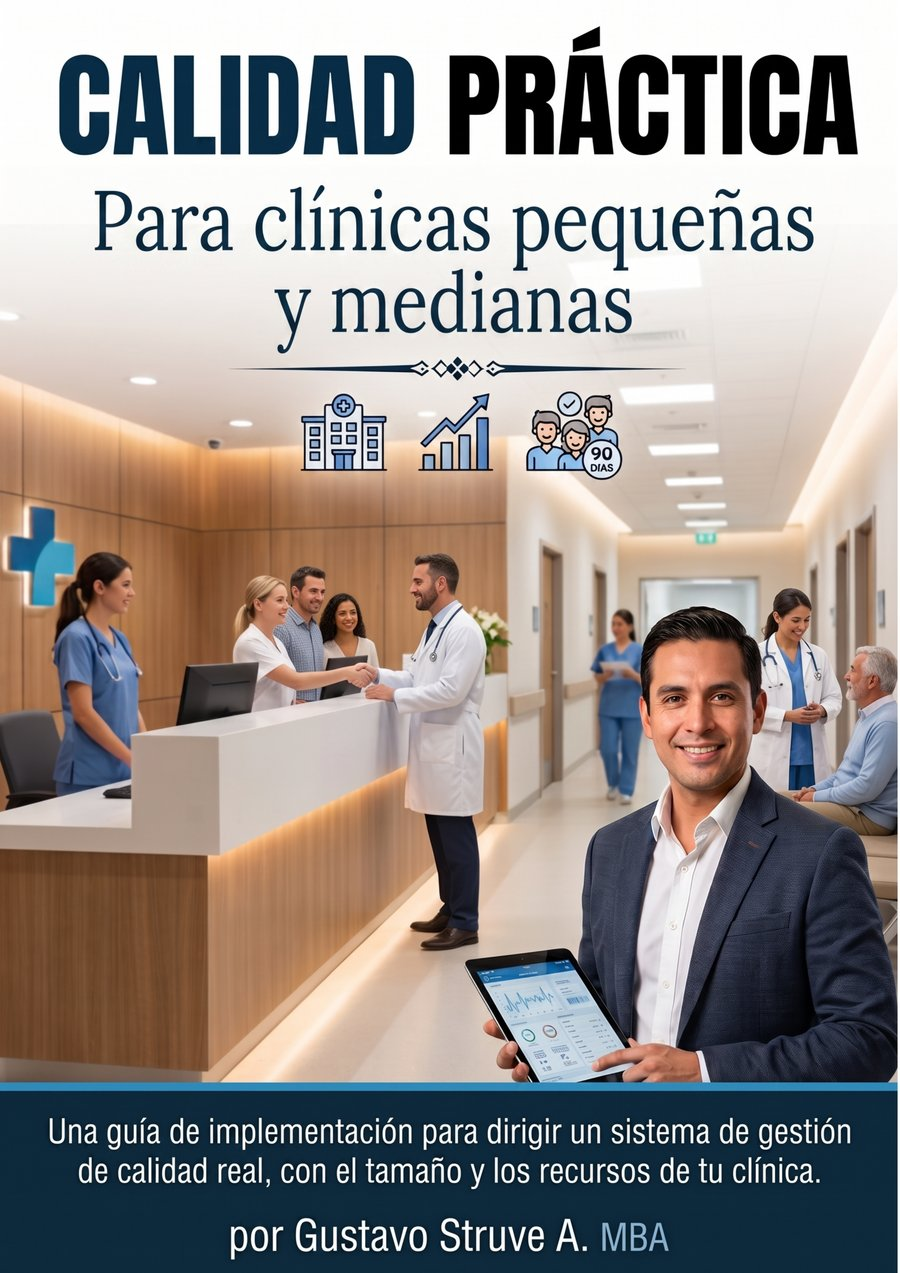
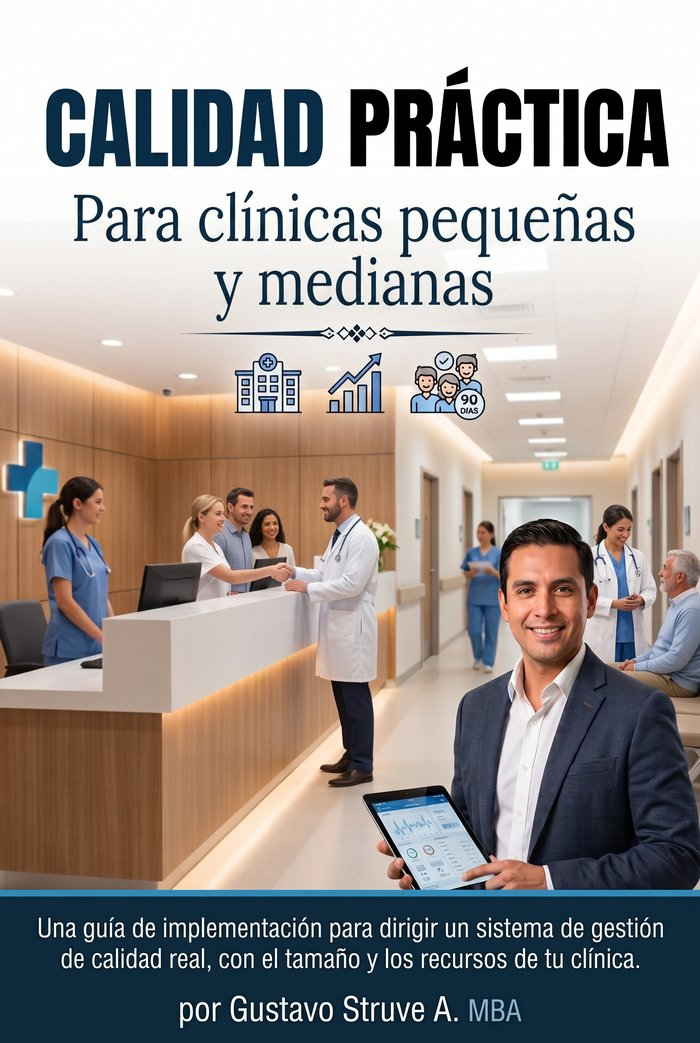
Redesign digital products grid: symmetric, all real covers
- Remove "Dominando Meta Ads" (was the only unreleased/no-image item)
  so the grid lands on 4 live products instead of an awkward 5
- Replace the mixed image/no-image cards with a consistent design:
  every product now shows its real cover — extracted the actual
  ebook covers for the two other ebooks, and built a custom on-brand
  SVG cover (navy/teal network graphic, no stock hype imagery) for
  the AI course, since its existing marketing creatives were generic
  sales-funnel style and clashed with the site's aesthetic
- New horizontal card layout (cover left, details right) in a clean
  2x2 grid instead of the previous 3-column layout built for 5 items

diff --git a/src/components/DigitalProducts.tsx b/src/components/DigitalProducts.tsx
@@ -9,7 +9,7 @@ import { Reveal, RevealGroup, revealItem } from "@/components/ui/Reveal";
 export function DigitalProducts() {
   return (
     <section id="productos" className="py-28 lg:py-36 border-t border-border scroll-mt-20">
-      <div className="mx-auto max-w-7xl px-6 lg:px-10">
+      <div className="mx-auto max-w-6xl px-6 lg:px-10">
         <Reveal>
           <p className="text-sm font-semibold tracking-[0.14em] uppercase text-amber mb-4">
             03 — Productos Digitales
@@ -23,66 +23,66 @@ export function DigitalProducts() {
           </p>
         </Reveal>
 
-        <RevealGroup className="mt-16 grid sm:grid-cols-2 lg:grid-cols-3 gap-5">
-          {digitalProducts.map((p) => (
-            <motion.div
-              key={p.title}
-              variants={revealItem}
-              className="rounded-2xl border border-border bg-surface/40 p-7 flex flex-col"
-            >
-              <div className="flex items-start gap-4">
-                {p.coverImage && (
-                  <div className="relative w-16 shrink-0 aspect-[850/1100] rounded-md overflow-hidden border border-border-strong">
+        <RevealGroup className="mt-16 grid sm:grid-cols-2 gap-5">
+          {digitalProducts.map((p) => {
+            const isLive = p.status === "live" && p.url;
+            const href = isLive
+              ? p.url!
+              : whatsappLink(`Hola Gustavo, quiero que me avises cuando esté disponible "${p.title}".`);
+
+            return (
+              <motion.a
+                key={p.title}
+                href={href}
+                target="_blank"
+                rel="noopener noreferrer"
+                variants={revealItem}
+                whileHover={{ y: -4 }}
+                transition={{ type: "spring", stiffness: 300, damping: 24 }}
+                className="group flex gap-5 rounded-2xl border border-border bg-surface/40 p-5 hover:border-border-strong hover:bg-surface transition-colors"
+              >
+                <div className="relative w-28 sm:w-32 shrink-0 aspect-[850/1100] rounded-lg overflow-hidden border border-border-strong">
+                  {p.coverImage && (
                     <Image
                       src={p.coverImage}
                       alt=""
                       fill
-                      sizes="64px"
-                      className="object-cover"
+                      sizes="128px"
+                      className="object-cover transition-transform duration-500 group-hover:scale-105"
                     />
-                  </div>
-                )}
-                <div className="flex-1 min-w-0">
-                  <div className="flex items-center justify-between gap-2">
-                    <span className="inline-flex items-center gap-1.5 text-xs font-semibold text-amber">
-                      {p.format === "Curso" ? <PlayCircle size={14} /> : <BookOpen size={14} />}
-                      {p.format}
-                    </span>
-                    {p.status === "soon" && (
-                      <span className="text-[11px] font-medium text-text-tertiary border border-border rounded-full px-2.5 py-1 shrink-0">
-                        Próximamente
-                      </span>
-                    )}
-                  </div>
-                  <h3 className="mt-3 text-xl font-bold tracking-tight">{p.title}</h3>
+                  )}
+                  {!isLive && (
+                    <div className="absolute top-1.5 right-1.5 rounded-full bg-bg/85 px-2 py-0.5 text-[9px] font-semibold text-text-secondary">
+                      Pronto
+                    </div>
+                  )}
                 </div>
-              </div>
 
-              <p className="mt-4 text-sm text-text-secondary leading-relaxed flex-1">
-                {p.description}
-              </p>
-              {p.status === "live" && p.url ? (
-                <a
-                  href={p.url}
-                  target="_blank"
-                  rel="noopener noreferrer"
-                  className="mt-6 inline-flex items-center justify-center rounded-full bg-amber px-5 py-3 text-sm font-semibold text-[#1a1206] hover:bg-white transition-colors"
-                >
-                  Ver en Hotmart
-                </a>
-              ) : (
-                <a
-                  href={whatsappLink(`Hola Gustavo, quiero que me avises cuando esté disponible "${p.title}".`)}
-                  target="_blank"
-                  rel="noopener noreferrer"
-                  className="mt-6 inline-flex items-center justify-center gap-2 rounded-full border border-border-strong px-5 py-3 text-sm font-semibold hover:bg-surface transition-colors"
-                >
-                  <Bell size={14} />
-                  Notificarme
-                </a>
-              )}
-            </motion.div>
-          ))}
+                <div className="flex flex-col min-w-0 py-1">
+                  <span className="inline-flex items-center gap-1.5 text-xs font-semibold text-amber">
+                    {p.format === "Curso" ? <PlayCircle size={14} /> : <BookOpen size={14} />}
+                    {p.format}
+                  </span>
+                  <h3 className="mt-2 text-lg font-bold tracking-tight leading-snug">
+                    {p.title}
+                  </h3>
+                  <p className="mt-2 text-sm text-text-secondary leading-relaxed line-clamp-3">
+                    {p.description}
+                  </p>
+                  <span className="mt-auto pt-4 inline-flex items-center gap-1.5 text-sm font-semibold text-amber group-hover:text-white transition-colors">
+                    {isLive ? (
+                      "Ver en Hotmart →"
+                    ) : (
+                      <>
+                        <Bell size={13} />
+                        Notificarme
+                      </>
+                    )}
+                  </span>
+                </div>
+              </motion.a>
+            );
+          })}
         </RevealGroup>
       </div>
     </section>

diff --git a/src/lib/content.ts b/src/lib/content.ts
@@ -261,6 +261,7 @@ export const digitalProducts: DigitalProduct[] = [
     description: "Guía práctica para emprender un negocio de comida rápida, de la idea al primer cliente.",
     status: "live",
     url: "https://go.hotmart.com/L103986937J",
+    coverImage: "/images/products/idea-a-negocio-rentable.jpg",
   },
   {
     title: "Emprende Desde Cero",
@@ -268,6 +269,7 @@ export const digitalProducts: DigitalProduct[] = [
     description: "Guía realista para crear ingresos en 90 días, sin fórmulas mágicas.",
     status: "live",
     url: "https://go.hotmart.com/Y104464949S",
+    coverImage: "/images/products/emprende-desde-cero.jpg",
   },
   {
     title: "Introducción a la Inteligencia Artificial",
@@ -275,12 +277,7 @@ export const digitalProducts: DigitalProduct[] = [
     description: "Curso completo para perder el miedo a la IA y empezar a aplicarla en el día a día.",
     status: "live",
     url: "https://go.hotmart.com/U104303889M",
-  },
-  {
-    title: "Dominando Meta Ads",
-    format: "Curso",
-    description: "Estrategias profesionales para vender y escalar con publicidad en Facebook e Instagram.",
-    status: "soon",
+    coverImage: "/images/products/introduccion-ia.jpg",
   },
 ];
 
